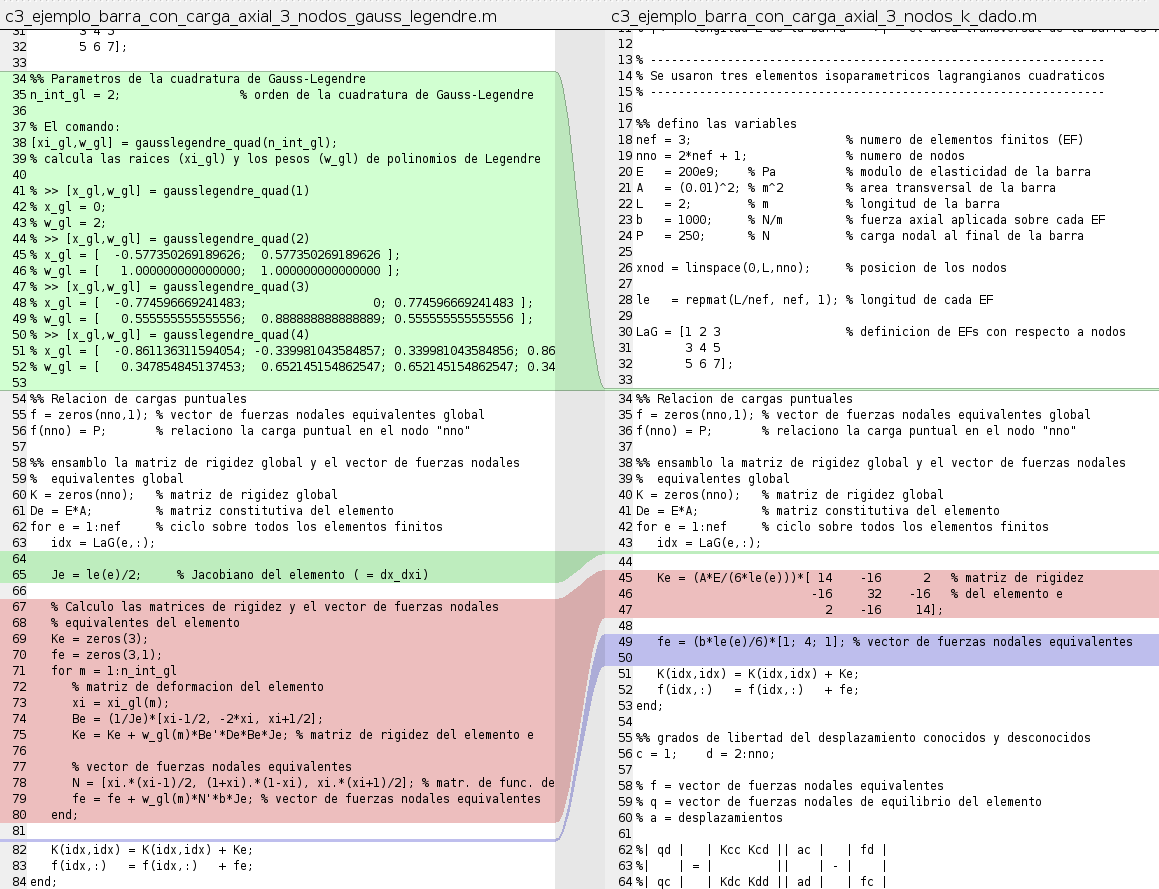
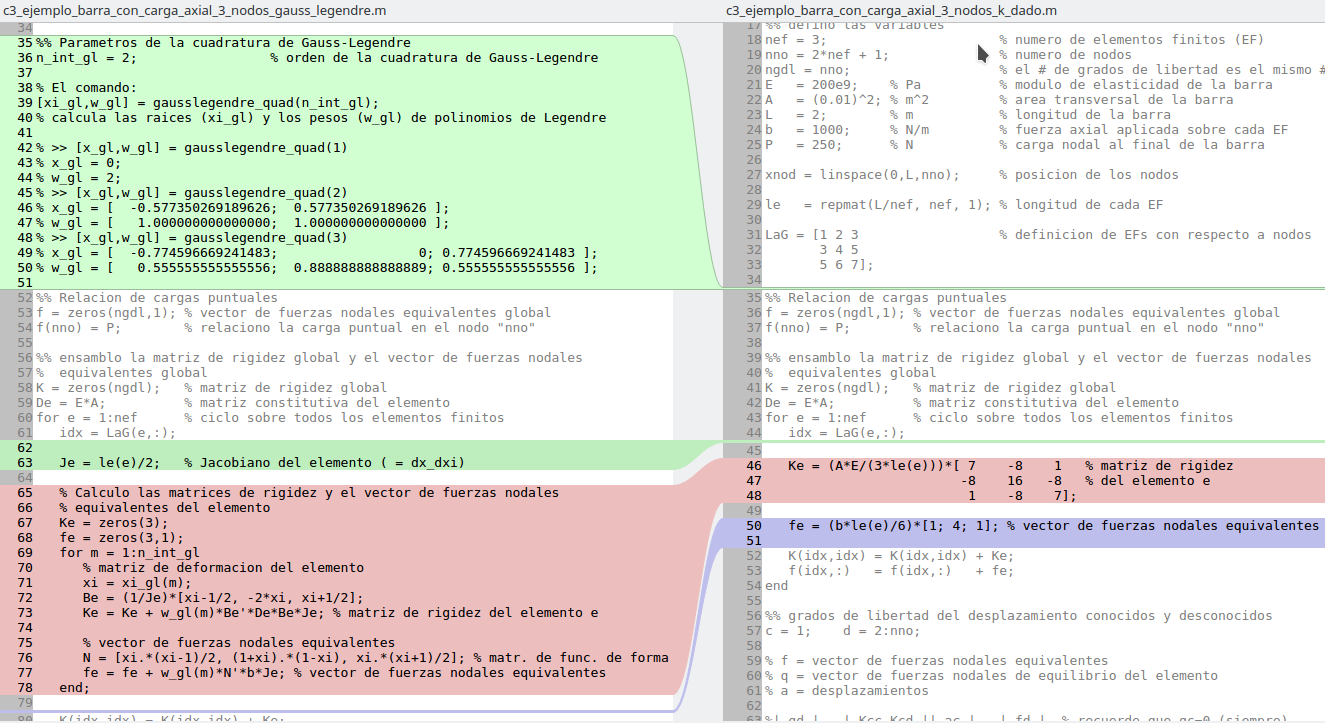
Actualizando la comparación

diff --git a/codigo/1D/EF_barra_n_nodos/c3_ejemplo_barra_con_carga_axial_3_nodos_gauss_legendre.m b/codigo/1D/EF_barra_n_nodos/c3_ejemplo_barra_con_carga_axial_3_nodos_gauss_legendre.m
@@ -17,6 +17,7 @@ clear, clc, close all        % borro la memoria, la pantalla y las figuras
 %% defino las variables
 nef = 3;                      % numero de elementos finitos (EF)
 nno = 2*nef + 1;              % numero de nodos
+ngdl = nno;                   % el # de grados de libertad es el mismo # de nodos
 E   = 200e9;    % Pa          % modulo de elasticidad de la barra
 A   = (0.01)^2; % m^2         % area transversal de la barra
 L   = 2;        % m           % longitud de la barra
@@ -52,17 +53,17 @@ n_int_gl = 2;                 % orden de la cuadratura de Gauss-Legendre
 % w_gl = [   0.347854845137453;  0.652145154862547; 0.652145154862547; 0.347854845137453 ];
 
 %% Relacion de cargas puntuales
-f = zeros(nno,1); % vector de fuerzas nodales equivalentes global
-f(nno) = P;       % relaciono la carga puntual en el nodo "nno"
+f = zeros(ngdl,1); % vector de fuerzas nodales equivalentes global
+f(nno) = P;        % relaciono la carga puntual en el nodo "nno"
 
 %% ensamblo la matriz de rigidez global y el vector de fuerzas nodales
 %  equivalentes global
-K = zeros(nno);   % matriz de rigidez global
-De = E*A;         % matriz constitutiva del elemento 
-for e = 1:nef     % ciclo sobre todos los elementos finitos
+K = zeros(ngdl);   % matriz de rigidez global
+De = E*A;          % matriz constitutiva del elemento 
+for e = 1:nef      % ciclo sobre todos los elementos finitos
    idx = LaG(e,:);
 
-   Je = le(e)/2;  % Jacobiano del elemento ( = dx_dxi)
+   Je = le(e)/2;   % Jacobiano del elemento ( = dx_dxi)
    
    % Calculo las matrices de rigidez y el vector de fuerzas nodales 
    % equivalentes del elemento
@@ -81,7 +82,7 @@ for e = 1:nef     % ciclo sobre todos los elementos finitos
 
    K(idx,idx) = K(idx,idx) + Ke;
    f(idx,:)   = f(idx,:)   + fe;
-end;
+end
 
 %% grados de libertad del desplazamiento conocidos y desconocidos
 c = 1;    d = 2:nno;
@@ -106,8 +107,8 @@ ac = 0;               % desplazamientos conocidos
 %% resuelvo el sistema de ecuaciones
 ad = Kdd\(fc-Kdc*ac);   % calculo desplazamientos desconocidos
 qd = Kcc*ac + Kcd*ad - fd;   % calculo fuerzas de equilibrio desconocidas
-a = zeros(nno,1);  a(c) = ac;  a(d) = ad; % desplazamientos 
-q = zeros(nno,1);  q(c) = qd;             % fuerzas nodales equivalentes
+a = zeros(ngdl,1);  a(c) = ac;  a(d) = ad; % desplazamientos 
+q = zeros(ngdl,1);  q(c) = qd;             % fuerzas nodales equivalentes
 
 %% se realizan unos calculos intermedios que necesitaremos mas adelante
 nint = 10;           % numero de puntos donde se interpolará dentro del EF
@@ -148,7 +149,7 @@ plot(x, uexacto(x), 'rx');         % grafico solucion analitica
 hold on;                           % no borre el lienzo 
 for e = 1:nef % ciclo sobre todos los elementos finitos
    plot(xx{e}, uu{e}, 'b-'); % grafico solucion por MEF
-end;
+end
 title('Comparacion de la solucion analitica con el MEF para el desplazamiento');
 xlabel('Eje X (m)')                % titulo del eje X
 ylabel('Desplazamiento (m)')       % titulo del eje Y
@@ -162,7 +163,7 @@ plot(x, Nexacta(x), 'rx');         % grafico solucion analitica
 hold on;                           % no borre el lienzo
 for e = 1:nef % ciclo sobre todos los elementos finitos
     plot(xx{e}, axial{e}, 'b-'); % grafico solucion por MEF
-end;
+end
 title('Comparacion de la solucion analitica con el MEF para la carga axial');
 xlabel('Eje X (m)')                % titulo del eje X
 ylabel('Carga axial (N)')          % titulo del eje Y
